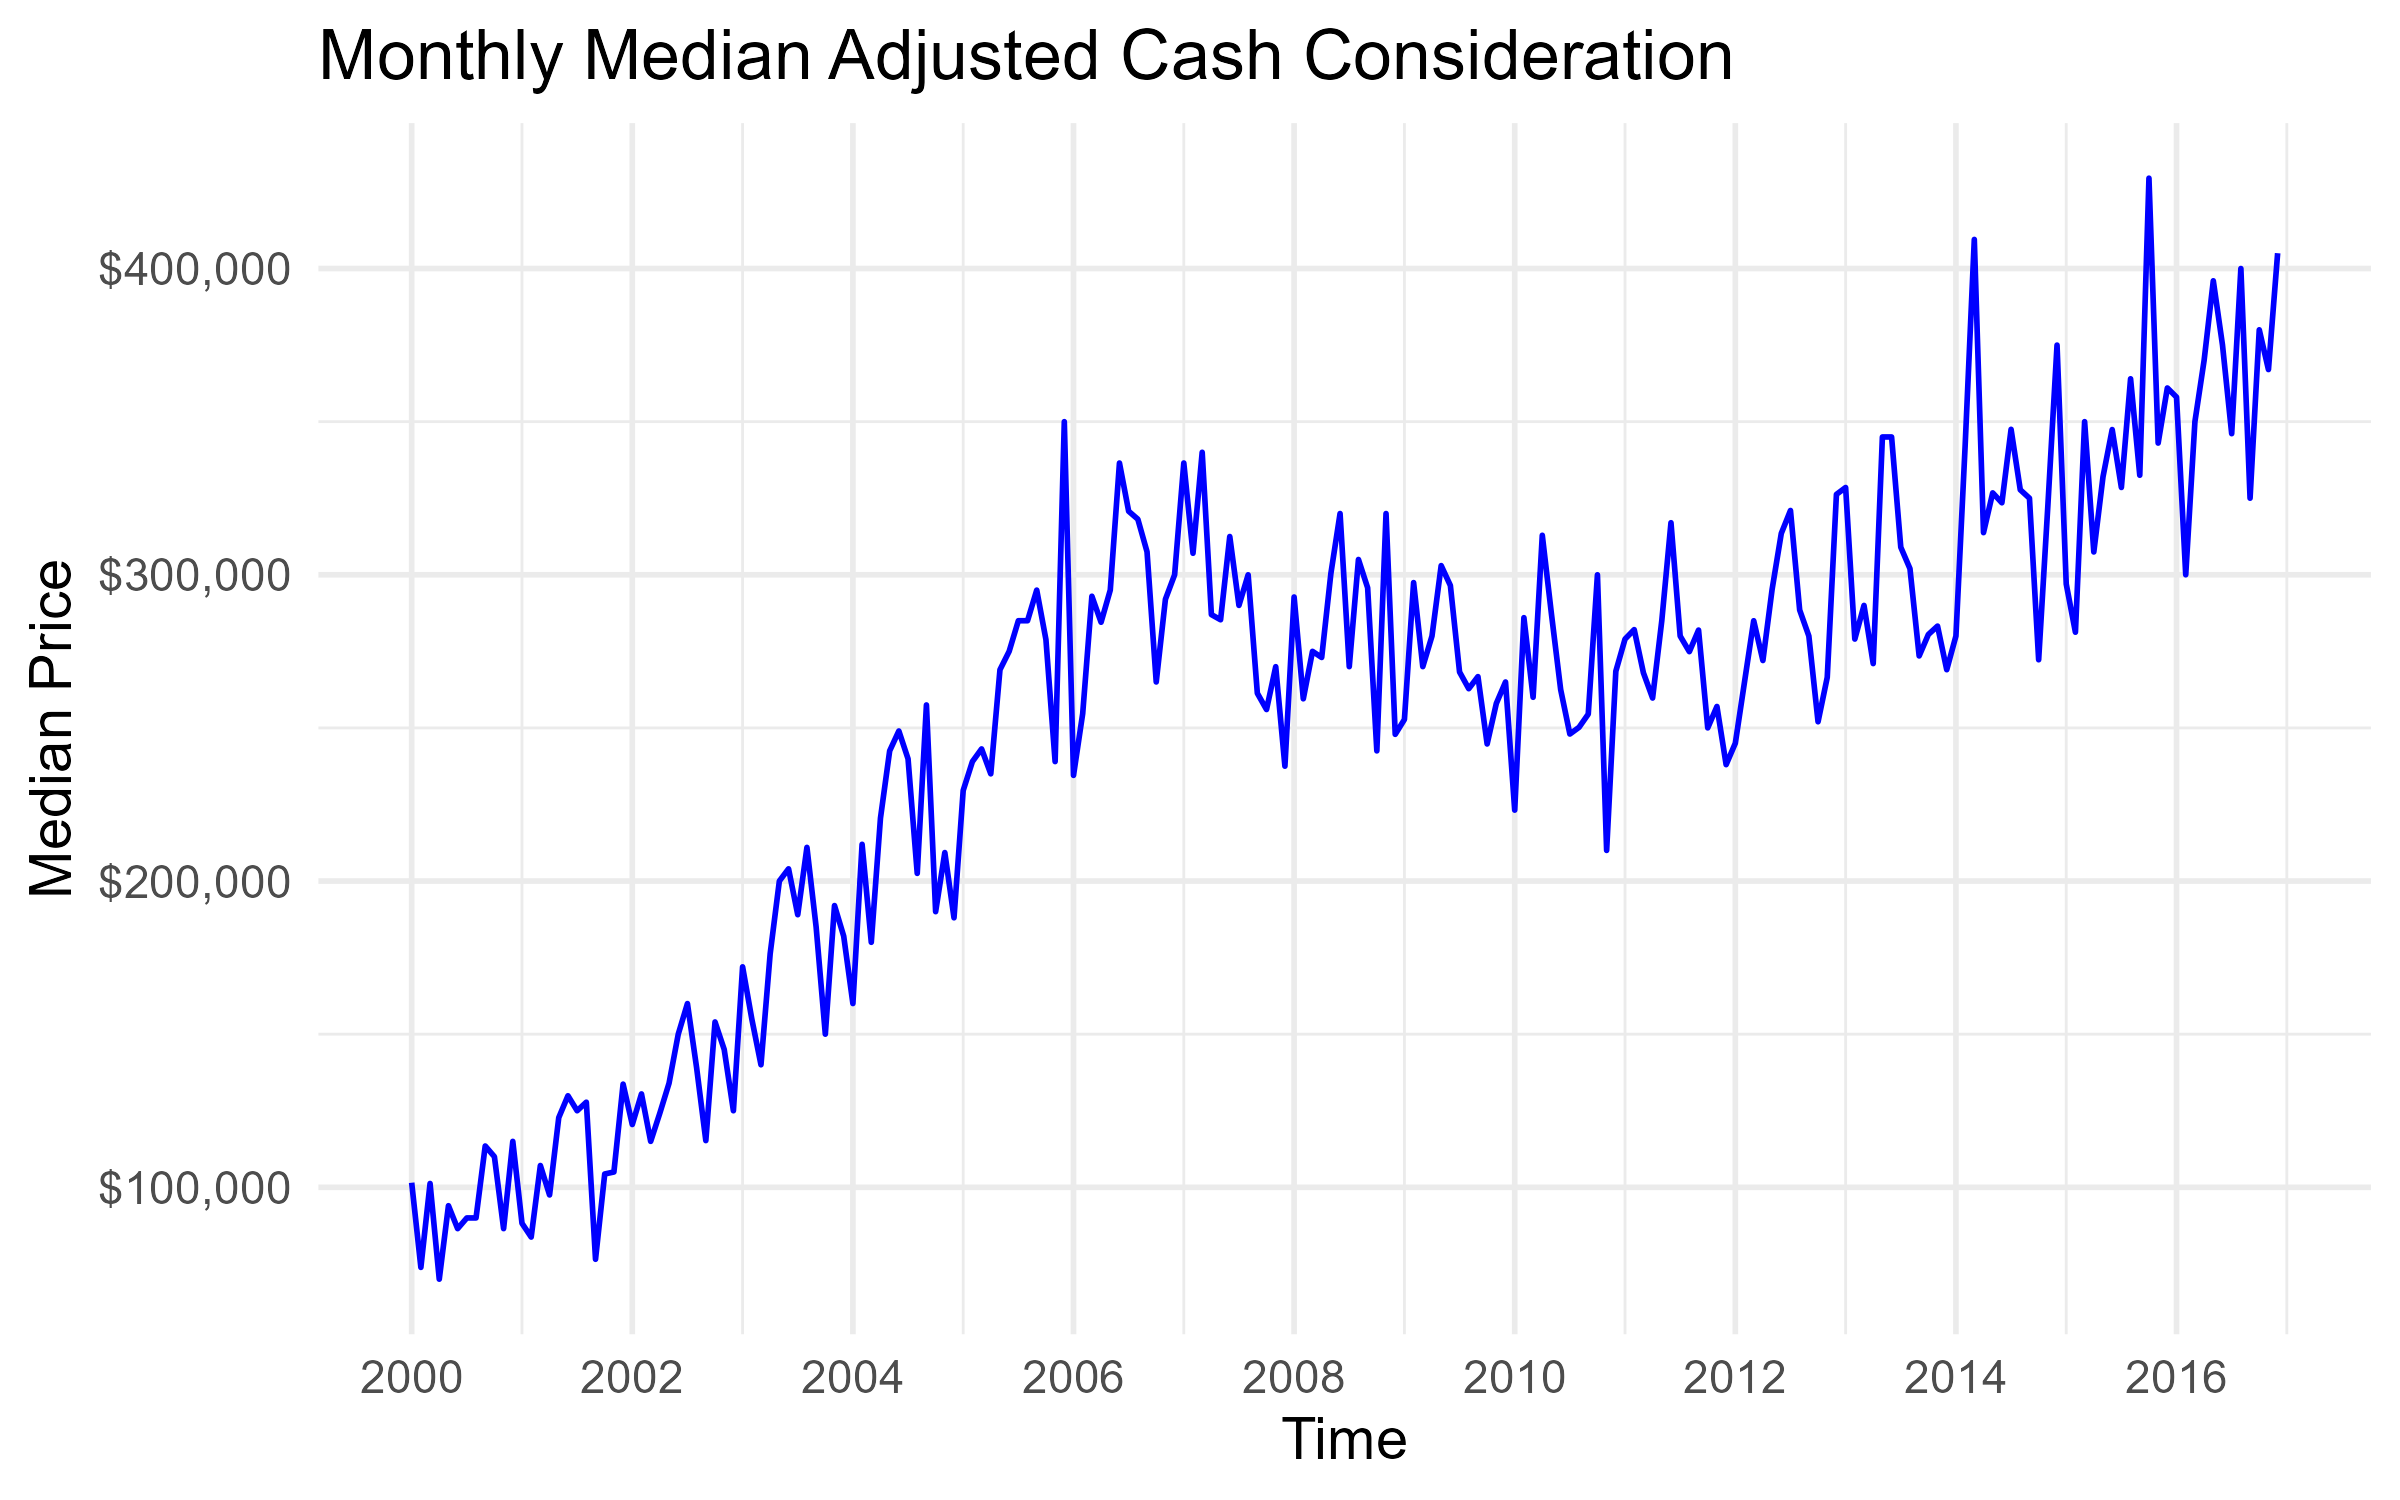
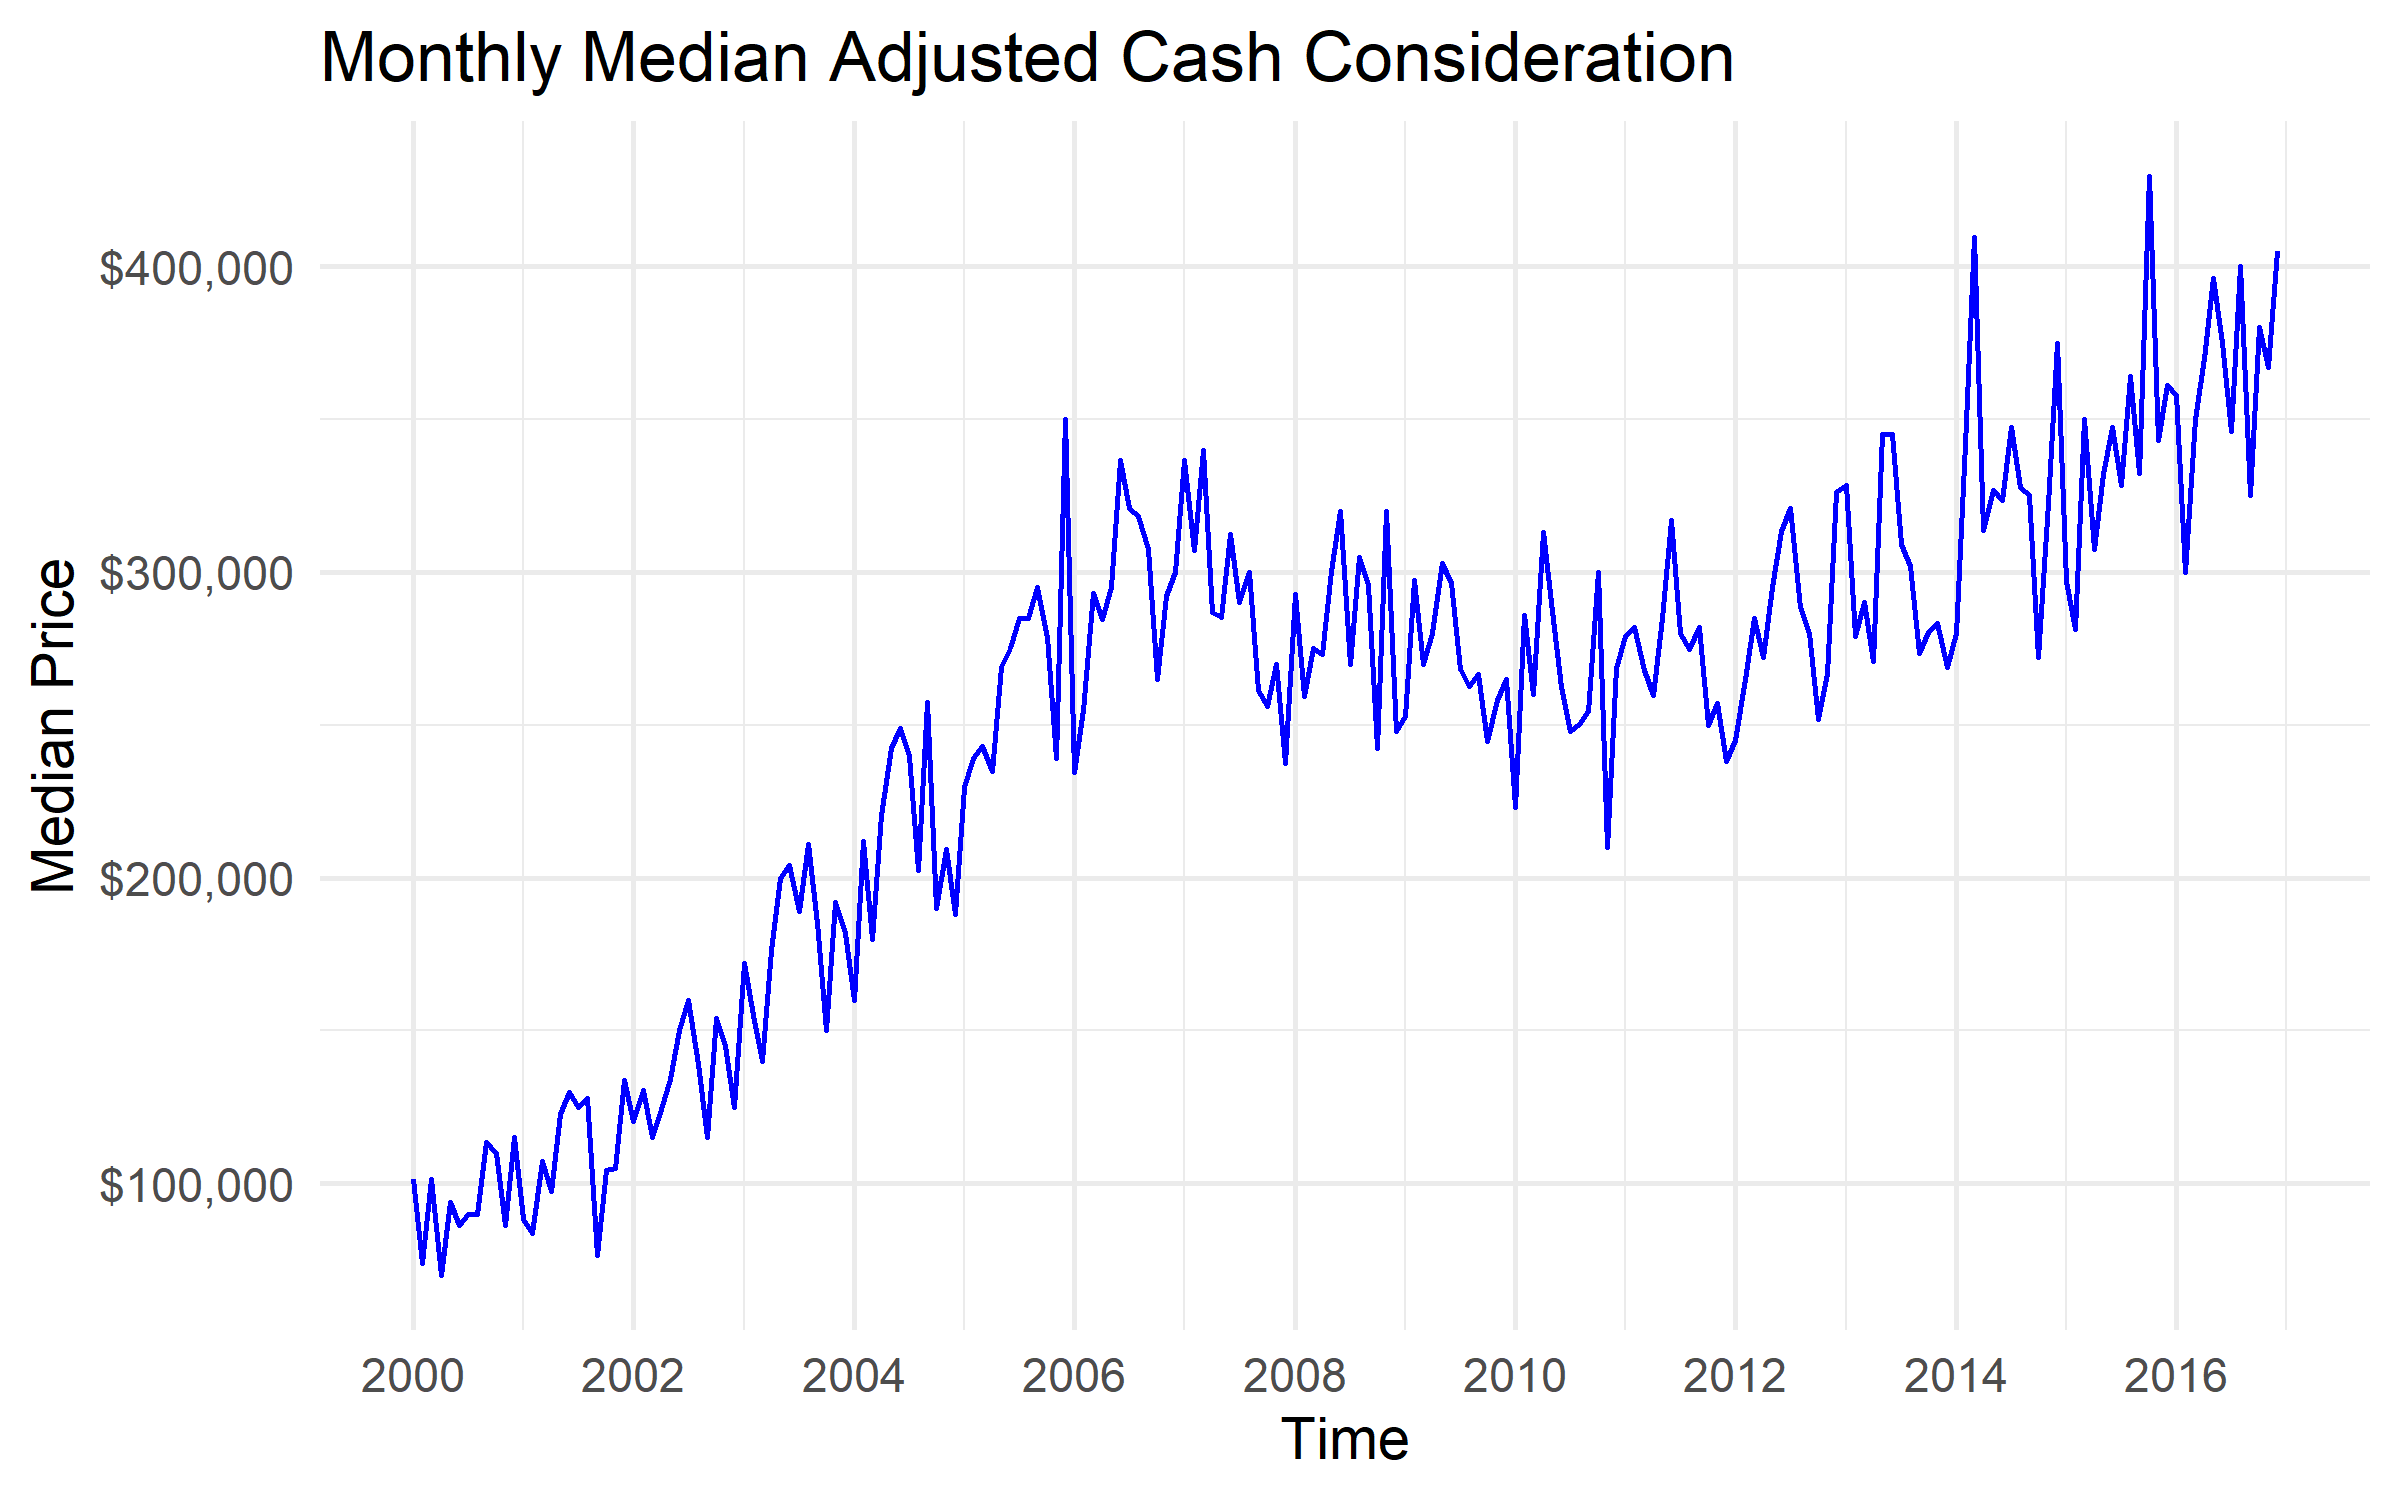
Addressing MI3 feedback

diff --git a/project2/SCRIPTS/sarima_analysis.md b/project2/SCRIPTS/sarima_analysis.md
@@ -1,7 +1,7 @@
 SARIMA Analysis
 ================
 Caroline Clippinger
-2026-10-19
+2026-10-26
 
 # General Information
 
@@ -36,7 +36,6 @@ message("Current R Version: ", R.Version()$version.string)
 #install.packages("ggplot2")
 #install.packages("tseries")
 #install.packages("here")
-#install.packages("stats")
 #install.packages("scales")
 #install.packages("patchwork")
 
@@ -68,10 +67,9 @@ library(tseries) # for stationarity tests
 library(here) # for loading data
 ```
 
-    ## here() starts at C:/Users/Caroline Clippinger/OneDrive/Documents/DS-4002-group-01
+    ## here() starts at C:/Users/Caroline Clippinger/OneDrive/Documents/College Documents/UVA/UVA Fall 2026/DS4002 DS Project/DS-4002-group-01
 
 ``` r
-library(stats)
 library(scales) 
 library(patchwork) # for arranging graphics to save
 
@@ -140,7 +138,7 @@ head(data_clean, 12)
     ## 24    2000-12       115000         51        False
 
 ``` r
-ts_data <- ts(data_clean$median_price, start = c(2000, 1), frequency = 12) # from stats - defining the first observation in the time-series values to be January (1) of 1999 and a seasonal frequency of 12, indicating monthly data
+ts_data <- ts(data_clean$median_price, start = c(2000, 1), frequency = 12) # from stats - defining the first observation in the time-series values to be January (1) of 2000 and a seasonal frequency of 12, indicating monthly data
 # S = frequency (will confirm later with ACF, will be shown as biggest spike)
 ```
 
@@ -292,42 +290,45 @@ adf.test(train) # from tseries
 # This determines value of d (if trend) and S (if seasonality)
 # Number of ordinary differences need
 d <- ndiffs(train)
-cat("\nNumber of ordinary differences (d) =", d)
+cat("\nSuggested number of ordinary differences (d) =", d)
 ```
 
     ## 
-    ## Number of ordinary differences (d) = 1
+    ## Suggested number of ordinary differences (d) = 1
 
 ``` r
 # Number of seasonal differences needed
 D <- nsdiffs(train)
-cat("\nNumber of seasonal differences (D) =", D) # giving 0, but it could be 1 as seen in STL pattern so when optimizing let this be 0-1
+cat("\nSuggested number of seasonal differences (D) =", D) # giving 0, but it could be 1 as seen in STL pattern so when optimizing let this be 0-1
 ```
 
     ## 
-    ## Number of seasonal differences (D) = 0
+    ## Suggested number of seasonal differences (D) = 0
 
 ``` r
-# Apply differencing (d = 1 and D = 1) - differences argument default is 1
+# NOTES:
+# How you apply differencing (if d = 1 and D = 1) - differences argument default is 1
 # Inner diff: Ordinary difference - lag = 1 (always), differences = d
 # Outer diff: Seasonal difference - lag = S, differences = D
 
-# Doignthe simplest differencing first to see if it fixes stationarity
+# Will apply ordinary differencing first, and if ADF test indicates staionarity we will not do seasonal differencing (which nsdiffs indicates should not be necessary), otherwise complete seasonal differencing as well and re-test
+
+# Doign the simplest differencing first to see if it fixes stationarity (AKA ordinary differencing, d = 1)
 diff_data <- diff(train, lag = d)
 
 # Checking post-differencing
-cat("\nNumber of ordinary differences (d) post-differencing =", ndiffs(diff_data))
+cat("\nNumber of ordinary differences (d) post-ordinary-differencing =", ndiffs(diff_data))
 ```
 
     ## 
-    ## Number of ordinary differences (d) post-differencing = 0
+    ## Number of ordinary differences (d) post-ordinary-differencing = 0
 
 ``` r
-cat("\nNumber of seasonal differences (D) post-differencing =", nsdiffs(diff_data))
+cat("\nNumber of seasonal differences (D) post-ordinary-differencing =", nsdiffs(diff_data))
 ```
 
     ## 
-    ## Number of seasonal differences (D) post-differencing = 0
+    ## Number of seasonal differences (D) post-ordinary-differencing = 0
 
 ``` r
 # Checking if stationarity fixed (want < .05)
@@ -342,6 +343,10 @@ adf.test(diff_data)
     ## data:  diff_data
     ## Dickey-Fuller = -8.0771, Lag order = 5, p-value = 0.01
     ## alternative hypothesis: stationary
+
+``` r
+# No stationarity concerns so no need for seasonal differencing (D=0)
+```
 
 # Determine Model Parameters
 
@@ -378,32 +383,34 @@ ggsave(
 # PACF Tells us:
 # p (last lag where value out of significance band) - 0 (when comparing to ACF since it tails off, but could be 2)
 
-# Suggested parameters are SARIMA(0,1,1)(1,1,0)[12]
+# Suggested parameters based on visuals are SARIMA(0,1,1)(1,1,0)[12]
 ```
 
 ## Automatically
 
 ``` r
 # Auto determines the best parameters based on the data
-auto_model <- auto.arima(train_raw, seasonal = TRUE, lambda = "auto") # from forecast
+auto_model <- auto.arima(train_raw, seasonal = TRUE, lambda = .5) # from forecast
 summary(auto_model)
 ```
 
     ## Series: train_raw 
-    ## ARIMA(0,1,1)(2,0,0)[12] with drift 
-    ## Box Cox transformation: lambda= 0.3999846 
+    ## ARIMA(0,1,1)(0,0,2)[12] with drift 
+    ## Box Cox transformation: lambda= 0.5 
     ## 
     ## Coefficients:
-    ##           ma1    sar1    sar2   drift
-    ##       -0.7739  0.1352  0.1356  0.9705
-    ## s.e.   0.0462  0.0762  0.0800  0.3533
+    ##           ma1    sma1    sma2   drift
+    ##       -0.7779  0.1649  0.2050  3.2415
+    ## s.e.   0.0466  0.0780  0.0917  1.1959
     ## 
-    ## sigma^2 = 261.6:  log likelihood = -801.44
-    ## AIC=1612.87   AICc=1613.19   BIC=1629.13
+    ## sigma^2 = 3062:  log likelihood = -1036.64
+    ## AIC=2083.28   AICc=2083.61   BIC=2099.54
     ## 
     ## Training set error measures:
-    ##                     ME    RMSE      MAE     MPE     MAPE      MASE        ACF1
-    ## Training set -93.93091 27587.3 21651.66 -0.8559 9.503038 0.6547302 0.008969746
+    ##                    ME     RMSE      MAE        MPE     MAPE      MASE
+    ## Training set 13.68817 27436.47 21401.74 -0.8379688 9.402478 0.6471727
+    ##                    ACF1
+    ## Training set 0.01562825
 
 ``` r
 # Suggested parameters: SARIMA(0,1,1)(2,0,0)[12]
@@ -506,6 +513,10 @@ results_table[2, ]
 
     ##    p d q P D Q      AIC      BIC RMSE_train RMSE_test MAPE_train MAPE_test
     ## 13 0 1 1 1 0 0 2089.868 2099.625   28279.53  27285.84   9.544768  6.308283
+
+``` r
+# DISCLAIMER: The model output on row 2 will not always necessarily be the 'best' model, but on our run we determined it was. Various criteria weight into this decision. First, is the value of train/test error. We prioritized low testing error since our model is about predictive accuracy, but if there is a large discrepancy in the train/test error we will refrain from selecting that model due to concerns of over-fitting the training data. Second, is the information criteria (IC), for these lower is better. Finally, is the simplicity where having more parameters at 0 would be a simpler model than more parameters at 1 or 2. 
+```
 
 # Fitting Selected Manual Model
 
@@ -761,12 +772,12 @@ cat("\n\nAutomatic SARIMA Model - SARIMA(0,1,1)(2,0,0)[12]")
 forecast::accuracy(forecast_values_auto, test_raw) 
 ```
 
-    ##                        ME     RMSE      MAE       MPE     MAPE      MASE
-    ## Training set    -93.93091 27587.30 21651.66 -0.855900 9.503038 0.6547302
-    ## Test set     -12863.61482 29570.29 22121.32 -4.152516 6.498235 0.6689322
-    ##                      ACF1 Theil's U
-    ## Training set  0.008969746        NA
-    ## Test set     -0.184668628 0.6841422
+    ##                        ME     RMSE      MAE        MPE     MAPE      MASE
+    ## Training set     13.68817 27436.47 21401.74 -0.8379688 9.402478 0.6471727
+    ## Test set     -12811.95864 30593.66 23119.08 -4.1515039 6.782092 0.6991039
+    ##                     ACF1 Theil's U
+    ## Training set  0.01562825        NA
+    ## Test set     -0.14450078 0.7109614
 
 ``` r
 # Seasonal Naive
@@ -800,7 +811,7 @@ autoplot(train) +
   labs(
     title = "Seasonal Naive vs. SARIMA Forecasts",
     x = "Time (2016)",
-    y = "Median Sale Price ($)" # would this be prices?
+    y = "Median Sale Price ($)" 
   ) + scale_color_manual(values = c(
     "Seasonal Naive Forecast" = "orange",
     "SARIMA Manual Forecast" = "blue",
